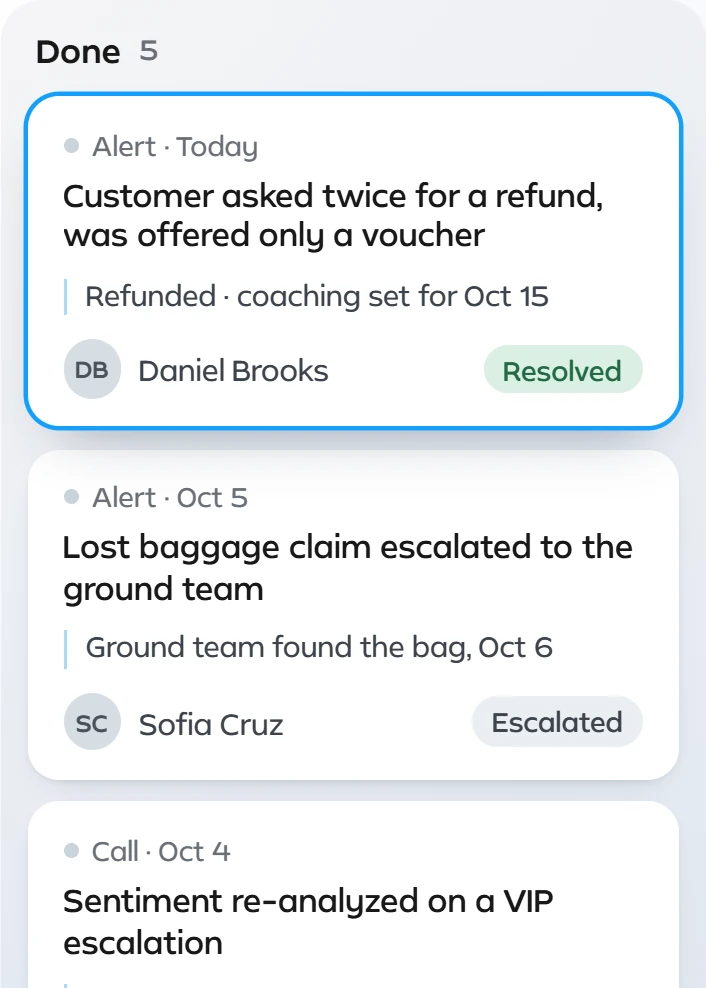
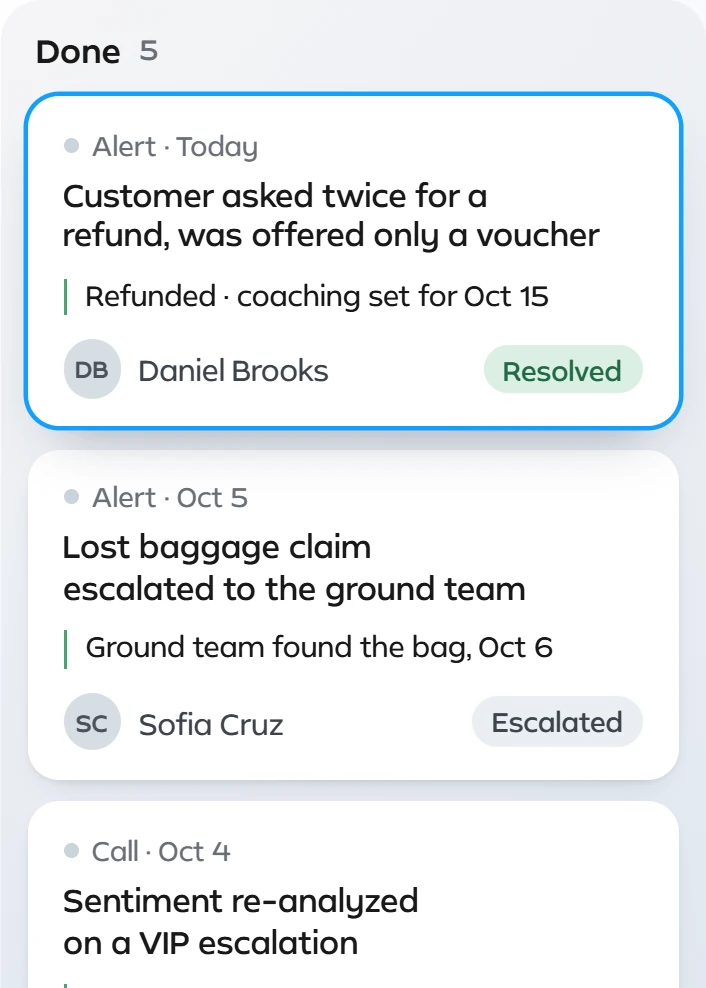
Product screens, after the seventh critic round: quotes time-first, usual-day line in the small charts, the five agents named

diff --git a/hear-v7/plan/screens/screens.js b/hear-v7/plan/screens/screens.js
@@ -68,7 +68,7 @@
       }
       if (i === 2) ui.side('<header>' + MK + 'Ask AI<small>Selma K.</small></header><div class="q">Which calls pulled Selma’s Vulnerable customer protocol score down?</div>' +
         '<div class="a"><p><b>12 calls</b> failed, and 9 of them share one cause: the customer said they were struggling to pay and the protocol questions were skipped.</p>' +
-        '<ul class="cm-calls">' + [['Oct 13', 'Cannot afford to rebook. Refund asked twice, voucher offered.', '01:48', '6 min 12 sec', 29], ['Oct 9', 'Customer mentions a missed payment. No affordability check.', '02:14', '8 min 40 sec', 26], ['Oct 7', 'Says the rent is due tomorrow. The sale continues.', '03:05', '7 min 21 sec', 42]]
+        '<ul class="cm-calls">' + [['Oct 13', 'Cannot afford to rebook. Refund asked twice, voucher offered.', '01:48', '6 min 12 sec', 29], ['Oct 9', 'Customer mentions a missed payment. No affordability check.', '02:14', '8 min 40 sec', 26], ['Oct 7', 'Says the rent is due tomorrow. The sale continues.', '03:05', '7 min 21 sec', 42], ['Oct 5', 'Says money is tight this month. The upgrade is still offered.', '00:57', '5 min 30 sec', 17]]
           .map(function (q, n) { return '<li style="--i:' + n + '"><b>' + q[0] + '</b><span>' + q[1] + '<i class="cm-tl"><u style="left:' + q[4] + '%"></u></i><small>Protocol skipped at ' + q[2] + '<em> · ' + q[3] + '</em></small></span></li>'; }).join('') + '</ul></div>' +
         '<span class="sg-all">Show all 12 calls →</span><div class="cm-sug"><span>Which agents share this cause?</span><span>Draft a coaching note for Selma</span></div><div class="cm-ask">Ask a follow-up</div>');
     }
@@ -105,7 +105,7 @@
         hair = document.createElement('i'); hair.className = 'ae-x'; plot.appendChild(hair);
         var pb = plot.getBoundingClientRect(), bb = b.getBoundingClientRect(), pz = pb.width / plot.offsetWidth || 1;
         hair.style.left = ((bb.left + bb.width / 2 - pb.left) / pz - .5) + 'px'; hair.style.height = Math.max(0, (bb.top - pb.top) / pz - 4) + 'px';
-        ui.tip(b, '<strong>Wed, Sep 30</strong><span class="big">66 <small>/ 100</small></span><span>10 pts under the average · 3,104 calls</span><span class="why">Fell most: <b>Explains the refund policy</b>, 81 → 52</span>', 'lefttop'); }
+        ui.tip(b, '<strong>Wed, Sep 30</strong><span class="big">66 <small>/ 100</small></span><span>10 pts under the average · 1,353 calls</span><span class="why">Fell most: <b>Explains the refund policy</b>, 81 → 52</span>', 'lefttop'); }
       if (i === 2) {
         [].forEach.call(el.querySelectorAll('[data-g="under 60"]'), function (x) { x.classList.add('hot'); });
         el.querySelectorAll('.kpis>div')[2].classList.add('hot');
@@ -113,11 +113,12 @@
            Selma K. is the agent the Compliance screen opens and the one the task in Actions asks to coach */
         var AG = [['Selma K.', 48, 1], ['Jonas R.', 51, 1], ['Priya N.', 52, 'Verifies identity'], ['Tomas V.', 54, 1], ['Leah M.', 55, 1], ['Dario F.', 56, 'Sets a clear next step'], ['Noor A.', 57, 1], ['Kyle B.', 59, 'Shows empathy']];
         ui.side('<header>Under 60<small>8 of 715 agents</small></header><div class="a" style="margin-top:14px"><p><span class="ae-xs">They average <b>54</b> across 1,212 calls. </span><b>Five of the eight are weakest on the same criterion</b>, the one that fell on Sep 30.</p></div><h4 class="ae-h4">Lowest first · weakest criterion</h4>' +
-          '<ul class="ae-ag">' + AG.map(function (a, n) { return '<li style="--i:' + n + '">' + av(a[0]) + '<span>' + a[0] + '<small>' + (a[2] === 1 ? '<u>Explains the refund policy</u>' : a[2]) + '</small></span><em>' + a[1] + '</em></li>'; }).join('') + '</ul>' +
+          '<ul class="ae-ag">' + AG.map(function (a, n) { return '<li style="--i:' + n + '">' + av(a[0]) + '<span>' + a[0] + '<small>' + (a[2] === 1 ? '<u>Explains the refund policy</u><i class="ts"> · Task set</i>' : a[2]) + '</small></span><em>' + a[1] + '</em></li>'; }).join('') + '</ul>' +
+          '<p class="ae-nt"><b>5 agents</b> share Explains the refund policy. The other three are weakest elsewhere.</p>' +
           '<div class="ft">' + act('Open the list') + act('Create 5 coaching tasks', 'ink') + '</div>');
         /* the finding ends in the move it calls for: the five who share the criterion become five coaching tasks */
         if (ui && !ui.jump) { later(function () { var bt = el.querySelector('.sx-side .ft .ink'); if (!bt) return; bt.classList.add('press');
-          later(function () { bt.classList.add('made'); bt.textContent = '5 tasks created'; }, 320); }, 5900); }
+          later(function () { bt.classList.add('made'); bt.textContent = '5 tasks created'; var ul = el.querySelector('.sx-side .ae-ag'); if (ul) ul.classList.add('made'); }, 320); }, 5900); }
       }
     }
   };
@@ -135,12 +136,12 @@
       return top('Actions', 'Every finding from a call, tracked to an owner and an outcome.', act('<svg class="i" viewBox="0 0 18 18"><path d="M9 3.5v11M3.5 9h11"/></svg>New task', 'ink')) +
         '<div class="ac-bar"><span class="sx-chip on">Everyone</span><span class="sx-chip">Assigned to me</span><span class="sx-chip">Mentions me</span><i class="gap"></i><span class="sx-chip">High priority <b>4</b></span><span class="sx-chip">From alerts <b>5</b></span><span class="sx-chip">From agent evaluation <b>2</b></span></div>' +
         '<div class="ac-board">' +
-        col('Pending', 6, card('Alert · Today · High', 1, 'Customer asked twice for a refund, was offered only a voucher', '“…a refund, not a voucher.” · 02:41', 'Daniel Brooks', '', 'src') +
-          card('Call · Yesterday', 0, 'Reason for call tagged as Billing, should be Flight change', '“I need to move my flight.” · 00:38', 'Maya Collins') +
+        col('Pending', 6, card('Alert · Today · High', 1, 'Customer asked twice for a refund, was offered only a voucher', '<b>02:41</b>“…a refund, not a voucher.”', 'Daniel Brooks', '', 'src') +
+          card('Call · Yesterday', 0, 'Reason for call tagged as Billing, should be Flight change', '<b>00:38</b>“I need to move my flight.”', 'Maya Collins') +
           card('Agent evaluation · Yesterday · High', 1, 'Recording disclosure missing in the first 30 seconds', 'No recording notice before 00:30', ''), 3, 5) +
-        col('In progress', 5, card('Alert · Oct 10 · High', 1, 'Technical failure blocked a booking at payment', '“It says payment failed.” · 03:12', 'Ryan Cole') +
+        col('In progress', 5, card('Alert · Oct 10 · High', 1, 'Technical failure blocked a booking at payment', '<b>03:12</b>“It says payment failed.”', 'Ryan Cole') +
           card('Agent evaluation · Oct 9', 0, 'Identity verification skipped before a ticket change', 'No ID question before 01:55', 'Paula Nunes') +
-          card('Call · Oct 9', 0, 'Promised callback was not made within 24 hours', '“Nobody called me back.” · 01:12', 'Sofia Cruz'), 2) +
+          card('Call · Oct 9', 0, 'Promised callback was not made within 24 hours', '<b>01:12</b>“Nobody called me back.”', 'Sofia Cruz'), 2) +
         col('Done', 4, card('Alert · Today', 0, 'Customer asked twice for a refund, was offered only a voucher', 'Refunded · coaching set for Oct 15', 'Daniel Brooks', 'Resolved', 'moved') +
           card('Alert · Oct 5', 0, 'Lost baggage claim escalated to the ground team', 'Ground team found the bag, Oct 6', 'Sofia Cruz', 'Escalated') +
           card('Call · Oct 4', 0, 'Sentiment re-analyzed on a VIP escalation', 'Sentiment corrected to Negative', 'Maya Collins', 'Resolved'), 2, 5) +
@@ -151,7 +152,7 @@
       var c = el.querySelector('.ac-card.src'), m = el.querySelector('.ac-card.moved'), ce = m.querySelector('.cev'), OUT = 'Refunded · coaching set for\u00a0Oct\u00a015';
       m.classList.remove('fly'); ce.classList.remove('ans'); ce.textContent = OUT;
       if (i === 1 || i === 2) c.classList.add('hot');
-      if (i === 2) ui.side('<header>Task<small>From an alert · Today</small></header><div class="a" style="margin-top:14px"><p style="font-size:19px;line-height:1.25;color:var(--ink);font-weight:500">Customer asked twice for a refund, was offered only a voucher</p><p>Cancelled JFK–LHR flight. The customer asked for a cash refund twice and the agent offered a voucher both times.</p></div>' +
+      if (i === 2) ui.side('<header>Task<small>From an alert · Today</small></header><div class="a" style="margin-top:14px"><p style="font-size:19px;line-height:1.25;color:var(--ink);font-weight:500;text-wrap:balance">Customer asked twice for a refund, was offered only a voucher</p><p>Cancelled JFK–LHR flight. The customer asked for a cash refund twice and the agent offered a voucher both times.</p></div>' +
         '<dl><dt>Source</dt><dd><span class="sx-tag blue">Alert</span>Refund refused</dd><dt>Priority</dt><dd>High</dd><dt>Assignee</dt><dd>' + av('Daniel Brooks') + 'Daniel Brooks</dd><dt>Call</dt><dd>Oct 13 · 6 min 12 sec</dd></dl>' +
         /* the call the task came from: its length as a line, the two moments the customer asked, and what was said */
         '<div class="ac-ev"><h4>From the call · agent Selma K.</h4><i class="cm-tl"><s></s><u style="left:22%"></u><u style="left:43.3%"></u></i><p><b>01:22</b>“I’d like a refund for the cancelled flight.”</p><p><b>02:41</b>“I asked for a refund, not a voucher.”</p></div>' +
@@ -214,7 +215,7 @@
       var wv = M.map(function (v, k) { return '<i' + (k === 20 ? ' class="top"' : '') + ' style="--h:' + (v / 1921).toFixed(3) + '"></i>'; }).join('');
       var N = [['Team B handle time is up 40% on last week', 'Agent evaluation · 2:30 pm', 'Rising', 'ink', ''],
         ['Refund asked twice, voucher offered: 6 calls in 7 days', 'Alert · Refund refused · Oct 13', 'New', 'nw', ' thread'],
-        ['Recording disclosure went missing on 61 calls in 14 days', 'Signal · Disclosure missing', 'Rising', 'ink', ''],
+        ['Recording disclosure went missing on 61 calls in 14 days', 'Signal · Disclosure missing · since Oct 11', 'Rising', 'ink', ''],
         ['Silence on Trip Status calls is down a third', 'Signal · Long silence · since the new script', 'Improving', 'ok', ''],
         ['Valid sales held above the 90% target for a sixth week', 'Compliance · weekly report', 'Steady', '', '']];
       var tab = function (t, c, on) { return '<span class="tab' + (on ? ' on' : '') + '">' + t + (c ? '<small>' + c + '</small>' : '') + '</span>'; };
@@ -243,7 +244,7 @@
         '<div class="sl s0"><small>September 2026 · Your recap</small><h3>Chief,<br class="dk"> your month was loud.</h3><p>Let’s listen back.</p></div>' +
         '<div class="sl s1"><small>Calls analyzed</small><h3>38,214</h3><p>9% more than August</p></div>' +
         '<div class="nr-mon"><span class="tip" style="left:' + pc(20.5 / 30 * 100) + '">Busiest day · <b>Mon, Sep 21</b> · 1,921 calls</span><div class="b">' + bars + '</div><div class="x"><span>Sep 1</span><span>Sep 30</span></div></div>' +
-        '<div class="sl s2"><small>What changed most</small><h3>Refund calls doubled in one week.</h3><p>The week of September 21, when the schedule changed.</p>' +
+        '<div class="sl s2"><small>What changed most</small><h3>Refund calls doubled in one week.</h3><p>It began on September 21, the month’s busiest day, when the schedule changed.</p>' +
         /* the two weeks are two bands, each with its total above it */
         '<div class="nr-ref"><span class="wn" style="left:' + pc(160 / W * 100) + '"><b>963</b><i>Sep 14 to 20</i></span><span class="wn on" style="left:' + pc(230 / W * 100) + '"><b>2,014</b><i>Sep 21 to 27</i></span>' +
         '<svg viewBox="0 0 ' + W + ' 100" preserveAspectRatio="none"><clipPath id="nr-wk"><rect x="195" y="-30" width="70" height="160"/></clipPath><rect x="125" y="-12" width="70" height="112" fill="#fff" fill-opacity=".08"/><rect x="195" y="-12" width="70" height="112" fill="#fff" fill-opacity=".2"/>' +
@@ -337,7 +338,7 @@
         '<span class="dt-btn">' + ic('<rect x="3" y="3.5" width="12" height="11" rx="2.5"/><path d="M7.2 3.5v11M10.8 3.5v11"/>') + 'Columns<b>10</b></span></div>' +
         '<div class="dt-tbl"><div class="dt-r hd"><i class="ck"></i><span>Call</span><span>ID</span><span class="srt">Call date' + ic('<path d="M9 4v10M5.5 10.5 9 14l3.5-3.5"/>') + '</span><span>Status</span><span>Priority</span><span>Assigned to</span><span>Direction</span><span class="du">Length</span><span>Sentiment</span><span style="text-align:right">Score</span></div>' +
         '<div class="dt-body"><div class="dt-set all">' + A.map(function (r, n) { return UP[n] != null ? row(r, n, 'stay', UP[n]) : row(r, n); }).join('') + '</div><div class="dt-set hit">' + F.map(function (r, n) { return row(r, n, n < 4 ? 'dup' : ''); }).join('') + '</div></div>' +
-        '<div class="dt-foot"><span class="ct"><span class="rg"><b>1–9</b> of </span><span class="of">2,000</span> calls</span><span class="av"><i></i><span>Average score <b class="p">36</b><small>against <b>76</b><em> for all calls</em></small></span><i></i><span class="ln">Average length <b>7:07</b><small>against <b>4:12</b></small></span></span><button class="act ink sig" type="button">Save as a signal</button><span class="sp"></span>' +
+        '<div class="dt-foot"><span class="ct"><span class="rg"><b>1–9</b> of </span><span class="of">2,000</span> calls</span><span class="av"><i></i><span>Average score <b class="p">36</b><small>against <b class="p hi">76</b><em> for all calls</em></small></span><i></i><span class="ln">Average length <b>7:07</b><small>against <b>4:12</b></small></span></span><button class="act ink sig" type="button">Save as a signal</button><span class="sp"></span>' +
         '<span class="pg"><i>' + ic('<path d="M11 5l-4 4 4 4"/>') + '</i><b>1</b><u>2</u><u>3</u><em>…</em><u class="last">223</u><i>' + ic('<path d="M7 5l4 4-4 4"/>') + '</i></span></div></div>';
     },
     show: function (el, i, ui) {
@@ -382,7 +383,10 @@
         ['Competitor mentioned', 'The customer names another airline', 'Active', '', [3, 4, 3, 3, 4, 3, 4, 3, 3, 4, 3, 3, 4, 3]],
         ['Praise for the agent', 'The customer thanks the agent by name', 'Paused', '', null]];
       var sum = function (a) { return a.reduce(function (x, y) { return x + y; }, 0); };
-      var spark = function (a) { var mx = Math.max.apply(0, a); return '<span class="sp">' + a.map(function (v, d) { return '<i style="height:' + Math.max(16, v / mx * 100).toFixed(0) + '%;--d:' + d + '"></i>'; }).join('') + '</span>'; };
+      var PV = [1, 2, 1, 3, 2, 1, 2, 2, 1, 2, 1, 2, 2, 1];
+      /* a small chart of fourteen days on the scale the rule is judged by: the usual day (their average) is drawn at six tenths of the height
+         for every signal, so a quiet one stays around the line and any move away from it shows */
+      var spark = function (a) { var u = sum(a) / a.length; return '<span class="sp">' + a.map(function (v, d) { return '<i style="height:' + Math.min(100, Math.max(12, v / u * 60)).toFixed(0) + '%;--d:' + d + '"></i>'; }).join('') + '<u style="bottom:60%"></u></span>'; };
       var card = function (f, k) {
         var a = f[4], mx = Math.max.apply(0, a);
         return '<div class="sg-card" data-g="' + k + '"><header><b>' + f[0] + '</b><i class="tg"></i></header><small>' + f[1] + '</small>' +
@@ -392,12 +396,12 @@
           '<span class="lb last">Over twice the usual since <b>' + f[3] + '</b></span></div><div class="sg-ax"><span>Sep 29</span><span>Oct 12</span></div></div>';
       };
       var row = function (q, k) {
-        return '<div class="sg-r" data-g="' + k + '"><i class="tg' + (q[4] ? '' : ' off') + '"></i><span class="nm">' + q[0] + '<small>' + q[1] + '</small></span>' + (q[4] ? spark(q[4]) : '<span class="sp"></span>') +
-          '<span class="ct">' + (q[4] ? '<b>' + sum(q[4]) + '</b>calls in 14 days' : '<b>–</b>paused on Sep 28') + '</span><span class="sx-tag ' + q[3] + '">' + q[2] + '</span></div>';
+        return '<div class="sg-r" data-g="' + k + '"><i class="tg' + (q[4] ? '' : ' off') + '"></i><span class="nm">' + q[0] + '<small>' + q[1] + '</small></span>' + (q[4] ? spark(q[4]) : '<span class="sp off"></span>') +
+          '<span class="ct">' + (q[4] ? '<b>' + sum(q[4]) + '</b>calls in 14 days' : '<span class="off">Off since Sep 28</span>') + '</span><span class="sx-tag ' + q[3] + '">' + q[2] + '</span></div>';
       };
       return top('Signals', 'Rules that classify calls on their own. <span class="sg-nn">7</span> signals · 3 triggered now', act('<svg class="i" viewBox="0 0 18 18"><path d="M9 3.5v11M3.5 9h11"/></svg>New signal', 'ink sg-nw') + act('Cancel', 'sg-cx')) +
         '<div class="sg-new"><span class="tx"></span><span class="sx-tag blue">Reading the last 14 days…</span></div>' +
-        '<div class="sg-r fresh"><span class="nm"><span>Supervisor requested<span class="sx-tag nw">Preview</span></span><small>Also catches “a manager” and “someone in charge”</small></span>' + spark([1, 2, 1, 3, 2, 1, 2, 2, 1, 2, 1, 2, 2, 1]) + '<span class="ct"><b>23</b>calls in 14 days</span>' + act('Save signal', 'ink') +
+        '<div class="sg-r fresh"><span class="nm"><span>Supervisor requested<span class="sx-tag nw">Preview</span></span><small>Also catches “a manager” and “someone in charge”</small></span>' + spark(PV) + '<span class="ct"><b>23</b>calls in 14 days</span>' + act('Save signal', 'ink') +
         /* a preview is checked before it is saved: two of the calls it found, the words that matched underlined */
         '<div class="mq"><small>2 of the 23</small><span>“Can I <u>speak to your supervisor</u>, please?”<small> · Oct 12</small></span><span>“I want <u>a manager</u> on the line.”<small> · Oct 11</small></span></div></div>' +
         '<div class="sx-body"><div class="sx-h"><b>Triggered now</b><span>3 signals over twice their usual day</span></div><div class="sg-fire">' + F.map(card).join('') + '</div>' +
@@ -405,7 +409,9 @@
     },
     show: function (el, i, ui) {
       var fresh = el.querySelector('.sg-r.fresh'), tag = el.querySelector('.sg-new .sx-tag'), fire = el.querySelector('.sg-fire'), live = !!ui && !ui.jump;
-      var sv = fresh.querySelector('.act'), pt = fresh.querySelector('.nm .sx-tag'), nn = el.querySelector('.sg-nn');
+      var sv = fresh.querySelector('.act'), pt = fresh.querySelector('.nm .sx-tag'), nn = el.querySelector('.sg-nn'), h2 = el.querySelector('.sg-h2');
+      var PV = [1, 2, 1, 3, 2, 1, 2, 2, 1, 2, 1, 2, 2, 1];
+      h2.firstChild.textContent = 'The other four'; h2.lastChild.textContent = '3 active, inside their usual range · 1 paused';
       fresh.classList.remove('in', 'q'); sv.classList.remove('press', 'saved'); sv.textContent = 'Save signal'; pt.className = 'sx-tag nw'; pt.textContent = 'Preview'; nn.textContent = '7';
       tag.textContent = 'Reading the last 14 days…';
       /* the page arrives: each firing signal's fourteen days rise from left to right, then the usual day is drawn across them */
@@ -429,12 +435,14 @@
         var nb = fresh.querySelector('.ct b'); nb.textContent = '23';
         var found = function () { box.classList.add('found'); fresh.classList.add('in');
           if (ui.jump) { fresh.classList.add('q'); return; }
-          nb.textContent = '0'; for (var k = 1; k <= 14; k++) (function (k) { later(function () { nb.textContent = Math.round(23 * k / 14); }, 900 + k * 45); })(k);
+          nb.textContent = '0'; for (var k = 1, cu = 0; k <= 14; k++) { cu += PV[k - 1]; (function (k, cu) { later(function () { nb.textContent = cu; }, 900 + k * 45); })(k, cu); }
           /* a preview is checked before it is saved: the row opens on two of the calls it caught. Only then is the button pressed;
              it says so, the page counts eight signals and the tag turns from Preview to Active */
           later(function () { fresh.classList.add('q'); }, 2300);
           later(function () { sv.classList.add('press'); }, 5000);
-          later(function () { sv.classList.add('saved'); sv.textContent = 'Saved'; nn.textContent = '8'; pt.className = 'sx-tag flip'; pt.textContent = 'Active'; }, 5350); };
+          later(function () { sv.classList.add('saved'); sv.textContent = 'Saved'; nn.textContent = '8'; pt.className = 'sx-tag flip'; pt.textContent = 'Active';
+            /* three triggered and five others make the eight the page now counts */
+            h2.firstChild.textContent = 'The other five'; h2.lastChild.textContent = '4 active, inside their usual range · 1 paused'; }, 5350); };
         if (ui.jump) { tx.textContent = text; box.classList.add('done'); found(); }
         /* the field arrives empty and the frame arrives with it; only then is the sentence typed */
         else { tx.textContent = ''; later(function () { type(tx, text, function () { box.classList.add('done'); later(found, 1100); }); }, 1250); }

diff --git a/work/actions.html b/work/actions.html
@@ -98,7 +98,7 @@ addEventListener('pagehide',function(){try{h.scrollRestoration='auto';}catch(e){
           <details class="more"><summary><span class="more-dot" aria-hidden="true"></span><span class="rm">Read more</span><span class="less">Show less</span></summary><div class="more-body"><p>Alerts fire when a monitor trips. Signals classify calls, and agent evaluations score each contact-center agent. None of them names an owner.</p></div></details>
         </div>
       </div>
-      <figure class="rv"><div class="shot v7s wide"><img src="../img/v7s-actions-board.webp?v=7" data-zoom alt="The Actions board in four columns, Pending, In progress, Done and Cancelled. Every card names its source, its date, the line from the call that raised it and its owner." width="2060" height="1327" loading="lazy"><span class="live">Design Lab · demo data</span></div>
+      <figure class="rv"><div class="shot v7s wide"><img src="../img/v7s-actions-board.webp?v=8" data-zoom alt="The Actions board in four columns, Pending, In progress, Done and Cancelled. Every card names its source, its date, the line from the call that raised it and its owner." width="2060" height="1327" loading="lazy"><span class="live">Design Lab · demo data</span></div>
         <figcaption><b>The Actions board.</b> Four columns, Pending to Cancelled, under one filter bar.</figcaption></figure>
     </div>
   </section>
@@ -112,7 +112,7 @@ addEventListener('pagehide',function(){try{h.scrollRestoration='auto';}catch(e){
           <details class="more"><summary><span class="more-dot" aria-hidden="true"></span><span class="rm">Read more</span><span class="less">Show less</span></summary><div class="more-body"><p>Cards sit in four columns, Pending, In progress, Done and Cancelled, under the filter bar.</p></div></details></div>
       </div>
       <figure class="v7-anat rv">
-        <div class="shot pad v7s" style="--iw:400px;--ir:4.6% / 11.1%"><span class="live">Design Lab · demo data</span><img src="../img/v7s-actions-card.webp?v=7" alt="One Actions card: a high-priority alert from today, “Customer asked twice for a refund, was offered only a voucher”, with the line from the call that raised it, and owned by Daniel Brooks." width="869" height="441" loading="lazy"></div>
+        <div class="shot pad v7s" style="--iw:400px;--ir:4.6% / 11.1%"><span class="live">Design Lab · demo data</span><img src="../img/v7s-actions-card.webp?v=8" alt="One Actions card: a high-priority alert from today, “Customer asked twice for a refund, was offered only a voucher”, with the line from the call that raised it, and owned by Daniel Brooks." width="869" height="441" loading="lazy"></div>
         <ol class="v7-parts" aria-label="The parts of a card, top to bottom"><li><span class="n">01</span><b>Source and age.</b> Alert, Call, Agent evaluation or Feedback, then Today, Yesterday or a date.</li><li><span class="n">02</span><b>Priority.</b> A high-priority task says so on the same line, with a coral dot.</li><li><span class="n">03</span><b>What happened.</b> One plain sentence, two lines at most. Under it, the line from the call that raised the task.</li><li><span class="n">04</span><b>Owner.</b> The assignee, or “Not assigned” when nobody has it.</li></ol>
         <div class="ct-foot"><figcaption><b>A card from the board.</b> The same task is opened in the demo at the top of the page.</figcaption><a class="ct-jump" href="#demo" data-beat="2">Watch it open</a></div>
       </figure>
@@ -152,9 +152,9 @@ addEventListener('pagehide',function(){try{h.scrollRestoration='auto';}catch(e){
         </div>
       </div>
       <div class="two">
-        <figure class="rv"><div class="shot actions-crop v7s" style="--iw:330px"><span class="live">Design Lab · demo data</span><img src="../img/v7s-actions-done.webp?v=6" alt="The Done column: closed tasks, each with its outcome written under the title and a tag, Resolved or Escalated." width="706" height="988" loading="lazy"></div>
+        <figure class="rv"><div class="shot actions-crop v7s" style="--iw:330px"><span class="live">Design Lab · demo data</span><img src="../img/v7s-actions-done.webp?v=7" alt="The Done column: closed tasks, each with its outcome written under the title and a tag, Resolved or Escalated." width="706" height="988" loading="lazy"></div>
           <figcaption><b>The Done column.</b> A finished task says how it ended: Resolved or Escalated.</figcaption></figure>
-        <figure class="rv"><div class="shot actions-crop v7s" style="--iw:330px"><span class="live">Design Lab · demo data</span><img src="../img/v7s-actions-cancelled.webp?v=6" alt="The Cancelled column: a duplicate task and a not-actionable feedback task, each tagged with its close reason." width="706" height="988" loading="lazy"></div>
+        <figure class="rv"><div class="shot actions-crop v7s" style="--iw:330px"><span class="live">Design Lab · demo data</span><img src="../img/v7s-actions-cancelled.webp?v=7" alt="The Cancelled column: a duplicate task and a not-actionable feedback task, each tagged with its close reason." width="706" height="988" loading="lazy"></div>
           <figcaption><b>The Cancelled column.</b> Each closed card carries its reason as a tag.</figcaption></figure>
       </div>
 
@@ -242,7 +242,7 @@ addEventListener('pagehide',function(){try{h.scrollRestoration='auto';}catch(e){
   </section>
 
   <div class="wrap">
-    <a class="next" href="newsroom.html"><div><div class="label" style="margin-bottom:12px">Next case study</div><h2>Newsroom</h2></div><span class="next-thumb whole" aria-hidden="true"><span class="bar"><i></i><i></i><i></i></span><img src="../img/v7s-news-feed.webp?v=10" width="2060" height="1327" alt="" loading="lazy" decoding="async"></span><span class="arrow" aria-hidden="true">→</span></a>
+    <a class="next" href="newsroom.html"><div><div class="label" style="margin-bottom:12px">Next case study</div><h2>Newsroom</h2></div><span class="next-thumb whole" aria-hidden="true"><span class="bar"><i></i><i></i><i></i></span><img src="../img/v7s-news-feed.webp?v=11" width="2060" height="1327" alt="" loading="lazy" decoding="async"></span><span class="arrow" aria-hidden="true">→</span></a>
     <div class="sources"><p>Hear Design Lab screens, rebuilt in code with demo data. Quoted phrases come from the Lab's commit messages and on-screen copy.</p></div>
   </div>
 </main>

diff --git a/work/explainable-scores.html b/work/explainable-scores.html
@@ -117,7 +117,7 @@ addEventListener('pagehide',function(){try{h.scrollRestoration='auto';}catch(e){
           <p>The last row counts each agent's failing criteria, so the worst columns stand out.</p></div></details>
         </div>
       </div>
-      <figure class="rv"><div class="shot v7s wide"><img src="../img/v7s-es-grid.webp?v=5" data-zoom alt="The Compliance screen: five criteria as rows and ten agents as columns. Passing scores are gray, failing scores are coral, a Failing criteria row counts them, and one failing cell has its popover open." width="2060" height="1327" loading="lazy"><span class="live">Design Lab · demo data</span></div>
+      <figure class="rv"><div class="shot v7s wide"><img src="../img/v7s-es-grid.webp?v=6" data-zoom alt="The Compliance screen: five criteria as rows and ten agents as columns. Passing scores are gray, failing scores are coral, a Failing criteria row counts them, and one failing cell has its popover open." width="2060" height="1327" loading="lazy"><span class="live">Design Lab · demo data</span></div>
         <figcaption><b>Compliance, criteria by agent.</b> Only a failing score takes color. One cell's popover is open.</figcaption></figure>
       <div class="two solo es-gap">
         <figure class="rv">
@@ -144,7 +144,7 @@ addEventListener('pagehide',function(){try{h.scrollRestoration='auto';}catch(e){
           <details class="more"><summary><span class="more-dot" aria-hidden="true"></span><span class="rm">Read more</span><span class="less">Show less</span></summary><div class="more-body"></div></details></div>
       </div>
       <div class="two">
-        <figure class="rv"><div class="shot v7s"><img src="../img/v7s-es-popover.webp?v=5" alt="The cell popover above a failing score of 54: Selma K., Vulnerable customer protocol, 12 of 26 calls failed this rule, a bar for Selma at 54 and a bar for the team at 81, the pass mark of 70 notched on both, and a link, Ask AI which calls." width="1010" height="928" loading="lazy"><span class="live">Design Lab · demo data</span></div>
+        <figure class="rv"><div class="shot v7s"><img src="../img/v7s-es-popover.webp?v=6" alt="The cell popover above a failing score of 54: Selma K., Vulnerable customer protocol, 12 of 26 calls failed this rule, a bar for Selma at 54 and a bar for the team at 81, the pass mark of 70 notched on both, and a link, Ask AI which calls." width="1010" height="928" loading="lazy"><span class="live">Design Lab · demo data</span></div>
           <figcaption><b>The cell popover.</b> Cropped from the Compliance screen.</figcaption></figure>
         <div class="prose xtra">
           <ul>
@@ -167,7 +167,7 @@ addEventListener('pagehide',function(){try{h.scrollRestoration='auto';}catch(e){
           <details class="more"><summary><span class="more-dot" aria-hidden="true"></span><span class="rm">Read more</span><span class="less">Show less</span></summary><div class="more-body"><p>The question arrives already written, with the agent and the criterion in it, and the agent's name stays at the top of the panel.</p></div></details></div>
       </div>
       <div class="two">
-        <figure class="rv"><div class="shot pad v7s" style="--iw:400px;--ir:22px"><img src="../img/v7s-es-ask.webp?v=4" alt="An Ask AI answer for Selma K.: the question, Which calls pulled Selma’s Vulnerable customer protocol score down, then 12 calls failed and 9 of them share one cause, then the calls by date, each with what was missed and the moment the protocol was skipped, marked on the length of the call." width="830" height="935" loading="lazy"><span class="live">Design Lab · demo data</span></div>
+        <figure class="rv"><div class="shot pad v7s" style="--iw:400px;--ir:22px"><img src="../img/v7s-es-ask.webp?v=5" alt="An Ask AI answer for Selma K.: the question, Which calls pulled Selma’s Vulnerable customer protocol score down, then 12 calls failed and 9 of them share one cause, then the calls by date, each with what was missed and the moment the protocol was skipped, marked on the length of the call." width="830" height="935" loading="lazy"><span class="live">Design Lab · demo data</span></div>
           <figcaption><b>An answer about one score.</b> From the Compliance screen.</figcaption></figure>
         <div class="prose es-prose xtra">
           <p>An answer asked from a cell has three parts, and each points at something you can check:</p>
@@ -221,7 +221,7 @@ addEventListener('pagehide',function(){try{h.scrollRestoration='auto';}catch(e){
   </section>
 
   <div class="wrap">
-    <a class="next" href="actions.html"><div><div class="label" style="margin-bottom:12px">Next case study</div><h2>Actions</h2></div><span class="next-thumb whole" aria-hidden="true"><span class="bar"><i></i><i></i><i></i></span><img src="../img/v7s-actions-board.webp?v=7" width="2060" height="1327" alt="" loading="lazy" decoding="async"></span><span class="arrow" aria-hidden="true">→</span></a>
+    <a class="next" href="actions.html"><div><div class="label" style="margin-bottom:12px">Next case study</div><h2>Actions</h2></div><span class="next-thumb whole" aria-hidden="true"><span class="bar"><i></i><i></i><i></i></span><img src="../img/v7s-actions-board.webp?v=8" width="2060" height="1327" alt="" loading="lazy" decoding="async"></span><span class="arrow" aria-hidden="true">→</span></a>
     <div class="sources"><p>Hear Design Lab screens, rebuilt in code with demo data. Quoted phrases come from the Lab's commit messages and on-screen copy.</p></div>
   </div>
 </main>

diff --git a/hear-v7/plan/screens/screens.css b/hear-v7/plan/screens/screens.css
@@ -1013,3 +1013,48 @@
 /* on a phone the tour ends on the two comparisons, whole: the bar above already says 86 of 2,000, and the button stands clear of the frame's edge */
 .px-small .sx[data-st="2"] .dt-foot .ct,.px-small .sx[data-st="2"] .dt-foot .av>i:first-child{display:none}
 .px-small .dt-foot .act.sig{margin-left:60px}
+/* ---------- Seventh pass ----------
+   Actions: a quote on a card is written as in the sheet, time first, and the time never breaks off onto its own line.
+   What was done (the Done column) is told apart from what was said by a green rule and darker text. */
+.ac-card .cev b{margin-right:7px;font-weight:600;color:var(--ink);font-variant-numeric:tabular-nums;white-space:nowrap}
+.ac-card p{text-wrap:balance}
+.ac-col:nth-child(3) .ac-card .cev{border-left-color:var(--green);color:var(--ink)}
+.ac-col:nth-child(3) .ac-card.moved.fly .cev:not(.ans){border-left-color:#A9DAFE;color:var(--ink2)}
+.is-short .ac-card.moved .cev{text-wrap:balance}
+/* the short frame's outcome field keeps its label once the outcome is written */
+.is-short .sx-side .ac-out .tx:empty:not(.typing)::before{content:none}
+.is-short .sx-side .ac-out .f::before{content:"Outcome";flex:none;margin-right:9px;color:var(--mut)}
+/* Agents: the sheet says who the five are before it offers the five tasks; when they are created, each of the five says so */
+.sx-side .ae-nt{margin:14px 0 0;padding-top:14px;border-top:1px solid var(--line);font-size:13.5px;line-height:1.45;color:var(--ink2);text-wrap:balance}
+.sx-side .ae-nt b{font-weight:600;color:var(--ink)}
+.is-short .sx-side .ae-nt{margin-top:10px;padding-top:10px;font-size:12.5px;line-height:1.4}
+.sx-side .ae-ag .ts{display:none;font-style:normal;font-weight:500;color:var(--green-ink)}
+.sx-side .ae-ag.made .ts{display:inline;animation:sg-mark .35s ease-out both;animation-delay:calc(var(--i)*70ms)}
+.is-short .sx-side .ae-ag .ts{display:none!important}
+.kpis>div>i{text-wrap:balance}
+/* Compliance: a score under the popover is gone, in every step */
+.sx .cm-grid .c.cov{opacity:0!important}
+/* Ask AI in the short frame: two calls, then the two follow-ups it suggests */
+.is-short .sx-side .cm-calls li:nth-child(n+3){display:none}
+.is-short .sx-side .cm-sug{display:flex;margin-top:auto}
+.is-short .sx-side .cm-ask{display:flex;height:34px;margin-top:10px;padding:0 13px;border-radius:9px;font-size:12.5px}
+/* Data: the score all calls average is the table's own badge, beside the coral one */
+.dt-foot .av small b.p.hi{background:#0B6FCF;color:#fff;margin:0 1px}
+/* Signals. A new rule at full size: the firing cards say what they catch and since when, as in the first step */
+.sx[data-st="2"] .sg-card>small{display:block}
+.sx[data-st="2"] .sg-plot .lb.last{display:block}
+.is-short .sx[data-st="2"] .sg-card>small,.is-short .sx[data-st="2"] .sg-plot .lb.last{display:none}
+/* every small chart carries its usual day, and has the width to be read */
+.sg-r{grid-template-columns:38px minmax(0,1fr) 300px 124px 92px}
+.is-narrow .sg-r{grid-template-columns:38px minmax(0,1fr) 196px 124px 92px}
+.sx.side-on .sg-r{grid-template-columns:38px minmax(0,1fr) 124px 92px}
+.sg-r.fresh.in{grid-template-columns:minmax(0,1fr) 300px 124px auto}
+.is-narrow .sg-r.fresh.in{grid-template-columns:minmax(0,1fr) 196px 124px auto}
+.sg-r .sp{position:relative;height:32px}
+.is-short .sg-r .sp{height:26px}
+.sg-r .sp u{position:absolute;left:0;right:0;border-top:1px dashed var(--mut);opacity:.55;text-decoration:none}
+.sg-r.fresh.in .sp u{animation:nr-base .4s 1.75s ease-out both}
+/* a paused signal: a flat line where the chart would be, and one line that says since when */
+.sg-r .sp.off{box-shadow:inset 0 -2px 0 #DCEFFE}
+.sg-r .ct .off{color:var(--mut)}
+@media (prefers-reduced-motion:reduce){.sx-side .ae-ag.made .ts,.sg-r.fresh.in .sp u{animation:none}}

diff --git a/work/design-system.html b/work/design-system.html
@@ -347,9 +347,9 @@ div.ds-ctwrap:not(.prose) { max-width: none; }
       </div>
       <div class="ds-screens">
         <figure class="rv"><div class="shot v7s wide"><img src="../img/v7s-topics-panel.webp?v=5" data-zoom alt="The Topics screen: boxes sized by calls, in one blue that deepens as the score drops, with the daily score list beside them" width="2072" height="1339" loading="lazy"></div><figcaption><b>Topics.</b> The blue is the score scale.</figcaption></figure>
-        <figure class="rv"><div class="shot v7s wide"><img src="../img/v7s-actions-board.webp?v=7" data-zoom alt="The Actions board in four columns, Pending, In progress, Done and Cancelled. Every card names its source, its date, the line from the call that raised it and its owner." width="2060" height="1327" loading="lazy"></div><figcaption><b>Actions.</b> White cards on a gray column. Only high priority and Resolved take color.</figcaption></figure>
-        <figure class="rv"><div class="shot v7s wide"><img src="../img/v7s-es-grid.webp?v=5" data-zoom alt="The Compliance screen: five criteria as rows and ten agents as columns. Passing scores are gray, failing scores are coral, and one failing cell has its popover open." width="2060" height="1327" loading="lazy"></div><figcaption><b>Compliance.</b> Coral marks only the failing scores.</figcaption></figure>
-        <figure class="rv"><div class="shot v7s wide"><img src="../img/v7s-news-feed.webp?v=10" data-zoom alt="The Newsroom front page: the lead story with its chart, a dashed line for a usual day and the peak marked, the monthly recap with its Play button, and the week’s other stories, each with a source line and a one-word tag" width="2060" height="1327" loading="lazy"></div><figcaption><b>Newsroom.</b> The chart takes the same blue. Each tag is a tint with its own text color.</figcaption></figure>
+        <figure class="rv"><div class="shot v7s wide"><img src="../img/v7s-actions-board.webp?v=8" data-zoom alt="The Actions board in four columns, Pending, In progress, Done and Cancelled. Every card names its source, its date, the line from the call that raised it and its owner." width="2060" height="1327" loading="lazy"></div><figcaption><b>Actions.</b> White cards on a gray column. Only high priority and Resolved take color.</figcaption></figure>
+        <figure class="rv"><div class="shot v7s wide"><img src="../img/v7s-es-grid.webp?v=6" data-zoom alt="The Compliance screen: five criteria as rows and ten agents as columns. Passing scores are gray, failing scores are coral, and one failing cell has its popover open." width="2060" height="1327" loading="lazy"></div><figcaption><b>Compliance.</b> Coral marks only the failing scores.</figcaption></figure>
+        <figure class="rv"><div class="shot v7s wide"><img src="../img/v7s-news-feed.webp?v=11" data-zoom alt="The Newsroom front page: the lead story with its chart, a dashed line for a usual day and the peak marked, the monthly recap with its Play button, and the week’s other stories, each with a source line and a one-word tag" width="2060" height="1327" loading="lazy"></div><figcaption><b>Newsroom.</b> The chart takes the same blue. Each tag is a tint with its own text color.</figcaption></figure>
       </div>
       <p class="ds-screens-note">All four: Design Lab, demo data.</p>
     </div>

diff --git a/work/newsroom.html b/work/newsroom.html
@@ -153,7 +153,7 @@ addEventListener('pagehide',function(){try{h.scrollRestoration='auto';}catch(e){
       <figure class="rv newsroom-anat">
         <div class="shot v7s"><span class="live">Design Lab · demo data</span>
           <div class="newsroom-pins">
-            <img src="../img/v7s-news-feed.webp?v=10" data-zoom alt="The Newsroom front page, with six numbered markers that match the list below: the day and the count of stories, the lead story about a signal with its source line, a chart with a dashed line for a usual day and its peak marked, the line Why you’re seeing this with a strength label and a link that reads See the 211 calls, the monthly recap card with its Play button, and the week’s other stories, each with a one-word tag" width="2060" height="1327" loading="lazy">
+            <img src="../img/v7s-news-feed.webp?v=11" data-zoom alt="The Newsroom front page, with six numbered markers that match the list below: the day and the count of stories, the lead story about a signal with its source line, a chart with a dashed line for a usual day and its peak marked, the line Why you’re seeing this with a strength label and a link that reads See the 211 calls, the monthly recap card with its Play button, and the week’s other stories, each with a one-word tag" width="2060" height="1327" loading="lazy">
             <span class="newsroom-pin" style="--x:24.6%;--y:13.8%" aria-hidden="true">1</span>
             <span class="newsroom-pin" style="--x:26.3%;--y:19.9%" aria-hidden="true">2</span>
             <span class="newsroom-pin" style="--x:58.5%;--y:41.1%" aria-hidden="true">3</span>

diff --git a/hear-v7/plan/studio.html b/hear-v7/plan/studio.html
@@ -139,7 +139,7 @@ svg.i{width:18px;height:18px;flex:none;fill:none;stroke:currentColor;stroke-widt
 </style>
 <link rel="stylesheet" href="login/studio-composer.css">
 <link rel="stylesheet" href="topics/topics.css?v=11">
-<link rel="stylesheet" href="screens/screens.css?v=67">
+<link rel="stylesheet" href="screens/screens.css?v=71">
 
 <div class="stage s1 v2 brand-powered" id="stage">
   <img class="bg" draggable="false" src="login/bg-calm-sky.jpg" alt="">
@@ -813,5 +813,5 @@ document.getElementById('new').addEventListener('click',()=>{ resetMaking(); sto
 <!-- Topics: a screen added for the portfolio, at two fidelities (topics/) -->
 <script src="topics/topics.js?v=12"></script>
 <!-- Product screens: the Design Lab's other screens, made simple in the Studio look (screens/) -->
-<script src="screens/screens.js?v=60"></script>
+<script src="screens/screens.js?v=64"></script>
 </html>
